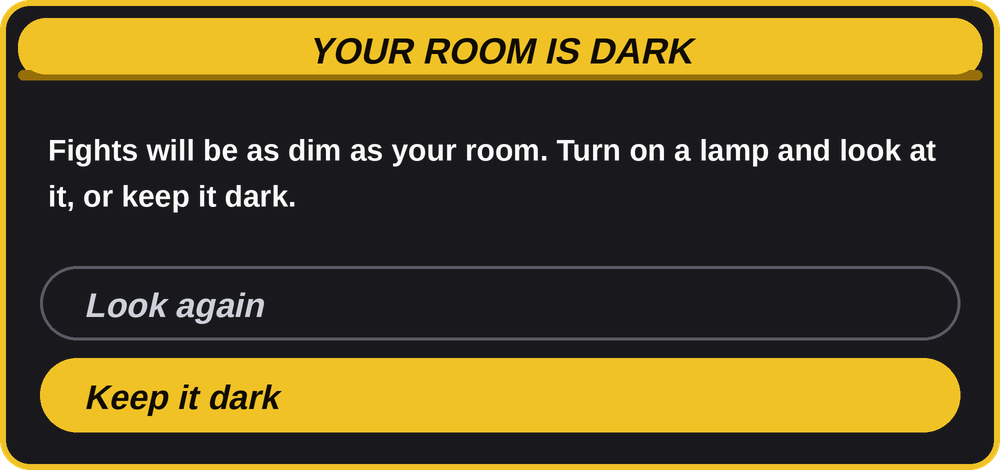
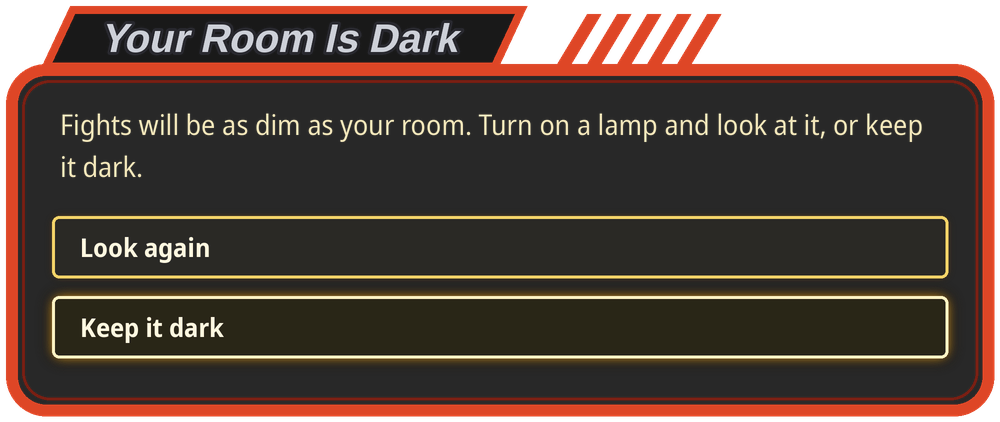
XR cards: calibration in the placing board's frame and the Options pages' look; no dark band under the titles
The calibration cards take the placing board's Melee frame (red border,
slanted title tab with hatching) round the Options pages' look: gold
line work and the cursor's pale border and glow for its buttons and
choices, the menus' Noto Sans, their cream and khaki text. The legend is
an Options box. The darker band under the gold title pills (the placing
tips' too) is gone.

diff --git a/tools/xr_cards/make_calibration.py b/tools/xr_cards/make_calibration.py
@@ -1,7 +1,10 @@
 #!/usr/bin/env python3
 # SPDX-License-Identifier: GPL-3.0-or-later
-"""Draws the XR room light calibration's pictures (src/pc/xr_calibrate.c) in
-the placing cards' style (make_cards.py), into resources/xr/:
+"""Draws the XR room light calibration's pictures (src/pc/xr_calibrate.c), into
+resources/xr/. The placing board's frame (make_cards.py: Melee's red border
+and slanted title tab) round the Options pages' look (resources/
+options-page.rcss: gold line work, the cursor's pale border and glow, the
+menus' Noto Sans):
 
   calibrate-intro.png                 the intro card (A Start, B Back)
   calibrate-clip.jpg                  its clip, a grid of frames (footage/)
@@ -25,10 +28,62 @@ import os
 import subprocess
 import tempfile
 
-from PIL import Image, ImageDraw
+from PIL import Image, ImageDraw, ImageFilter, ImageFont
 
 import make_cards as mc
-from make_cards import GOLD, GOLD_DARK, PANEL, SILVER, WHITE, s
+from make_cards import FRAME_DARK, FRAME_RED, GOLD, SILVER, WHITE, s
+
+# The Options pages' colours (options-page.rcss).
+ROW_BORDER = (240, 194, 38, 176)  # .row
+ROW_FILL = (12, 11, 8, 224)
+ROW_GLOW = (255, 150, 20, 80)
+CURSOR_BORDER = (255, 244, 196)   # .row.cursor
+CURSOR_FILL = (29, 24, 10, 240)
+CURSOR_GLOW = (255, 176, 32, 224)
+NAME = (255, 248, 224)            # a row's name
+VALUE = (240, 228, 184)           # its value, the body text
+LABEL = (201, 183, 124)           # a group's heading, notes
+RULE = (240, 194, 38, 96)
+
+MENU = os.path.join(mc.ROOT, "resources", "menu.ttf")
+MENU_BOLD = os.path.join(mc.ROOT, "resources", "menu-bold.ttf")
+
+
+def mfont(size, bold=False):
+    return ImageFont.truetype(MENU_BOLD if bold else MENU, size * mc.SS)
+
+
+def mline(d, x, y, parts, size, fill=VALUE, bold=False):
+    """A line in the menus' face: strings, and ("btn", label) glyphs."""
+    f = mfont(size, bold)
+    for p in parts:
+        if isinstance(p, tuple):
+            x = mc.button(d, x, y, p[1], size=size * 1.25) + s(10)
+        else:
+            d.text((x, y), p, font=f, fill=fill, anchor="lm")
+            x += int(f.getlength(p))
+    return x
+
+
+def mwidth(parts, size, bold=False):
+    probe = Image.new("RGBA", (s(2400), s(200)))
+    return mline(ImageDraw.Draw(probe), 0, s(100), parts, size, bold=bold)
+
+
+def glow(img, box, radius, colour, blur, spread):
+    """A box-shadow: the box's shape, grown by `spread`, blurred under it."""
+    layer = Image.new("RGBA", img.size, (0, 0, 0, 0))
+    x0, y0, x1, y1 = box
+    ImageDraw.Draw(layer).rounded_rectangle((x0 - spread, y0 - spread, x1 + spread, y1 + spread),
+                                            radius=radius + spread, fill=colour)
+    img.alpha_composite(layer.filter(ImageFilter.GaussianBlur(blur)))
+
+
+def box(img, rect, cursor=False):
+    """An Options row or button: gold line work, the cursor's pale and lit."""
+    glow(img, rect, s(7), CURSOR_GLOW if cursor else ROW_GLOW, s(7 if cursor else 4), s(3 if cursor else 1))
+    ImageDraw.Draw(img).rounded_rectangle(rect, radius=s(7), fill=CURSOR_FILL if cursor else ROW_FILL,
+                                          outline=CURSOR_BORDER if cursor else ROW_BORDER, width=s(3))
 
 CARD_W = s(1000)
 
@@ -55,31 +110,40 @@ NEXT = [
 ]
 
 
-def panel(w, h, title=None):
-    """A card: the dark panel in its gold rim, a gold title pill on top."""
-    img = Image.new("RGBA", (w, h), (0, 0, 0, 0))
+# The frame's title tab, above the panel.
+TAB = s(64)
+
+
+def frame(w, h, title):
+    """A card in the placing board's frame: the dark panel in Melee's red
+    border, the title in a slanted tab on its top edge, hatching beside it.
+    `h` is the panel's; the card is TAB taller."""
+    img = Image.new("RGBA", (w, TAB + h), (0, 0, 0, 0))
     d = ImageDraw.Draw(img)
-    d.rounded_rectangle((0, 0, w - 1, h - 1), radius=s(30), fill=PANEL + (238,), outline=GOLD, width=s(6))
-    if title:
-        pill_h = s(62)
-        d.rounded_rectangle((s(18), s(18), w - s(18), s(18) + pill_h), radius=pill_h // 2, fill=GOLD)
-        d.rounded_rectangle((s(18), s(18) + pill_h - s(10), w - s(18), s(18) + pill_h), radius=s(5), fill=GOLD_DARK)
-        d.rounded_rectangle((s(18), s(18), w - s(18), s(18) + pill_h - s(6)), radius=pill_h // 2, fill=GOLD)
-        mc.italic_text(img, (w // 2 - mc.font(36).getlength(title) // 2, s(18) + pill_h * 0.74), title, 36,
-                       (16, 12, 4))
+    top = TAB
+    d.rounded_rectangle((s(6), top, w - s(6), top + h - s(6)), radius=s(40), fill=(0, 0, 0, 215), outline=FRAME_RED,
+                        width=s(12))
+    d.rounded_rectangle((s(22), top + s(16), w - s(22), top + h - s(22)), radius=s(28), outline=FRAME_DARK, width=s(3))
+    end = s(110) + int(mc.font(40).getlength(title)) + s(60)
+    d.polygon([(s(40), top + s(6)), (s(70), s(6)), (end, s(6)), (end - s(30), top + s(6))], fill=(0, 0, 0, 230),
+              outline=FRAME_RED, width=s(8))
+    for i in range(5):
+        x = end + s(30 + i * 30)
+        d.polygon([(x, top), (x + s(30), s(14)), (x + s(44), s(14)), (x + s(14), top)], fill=FRAME_RED)
+    mc.italic_text(img, (s(100), s(52)), title, 40, SILVER, outline=(40, 40, 46))
     return img, d
 
 
-def lines(d, x, y, rows, size=30, step=46, fill=WHITE):
+def lines(d, x, y, rows, size=28, step=42, fill=VALUE):
     for parts in rows:
-        mc.rich_line(d, x, y, parts, size, fill)
+        mline(d, x, y, parts, size, fill)
         y += s(step)
     return y
 
 
 def wrap(text, size, width):
     """The words of `text` in lines as wide as `width` (supersampled) allows."""
-    f = mc.font(size)
+    f = mfont(size)
     out, line = [], ""
     for word in text.split():
         trial = word if not line else line + " " + word
@@ -93,75 +157,87 @@ def wrap(text, size, width):
     return out
 
 
-def centred(d, w, y, parts, size, fill=WHITE):
+def centred(d, w, y, parts, size, fill=VALUE):
     """A line of text and buttons centred across a card `w` wide."""
-    mc.rich_line(d, (w - mc.rich_width(parts, size)) // 2, y, parts, size, fill)
+    mline(d, (w - mwidth(parts, size)) // 2, y, parts, size, fill)
+
+
+def buttons(img, w, y, items, cursor=-1):
+    """Options buttons side by side, centred: each a box with its glyph and
+    name, as tall as an Options row."""
+    bw, bh, gap = s(250), s(62), s(36)
+    x = (w - (len(items) * bw + (len(items) - 1) * gap)) // 2
+    d = ImageDraw.Draw(img)
+    for i, (glyph, name) in enumerate(items):
+        rect = (x, y, x + bw, y + bh)
+        box(img, rect, i == cursor)
+        parts = [("btn", glyph), name]
+        mline(d, x + (bw - mwidth(parts, 26, True)) // 2, y + bh // 2, parts, 26, NAME, True)
+        x += bw + gap
+    return y + bh
 
 
 # The intro's clip (the user's headset recording, clip_atlas): where it sits
 # on the card, beside the text.
-CLIP_RECT = (s(40), s(104), s(340), s(340))
+CLIP_RECT = (s(48), TAB + s(48), s(300), s(300))
 
 
 def intro():
-    w, h = CARD_W, s(590)
-    img, d = panel(w, h, "ROOM LIGHT")
+    w, h = CARD_W, s(540)
+    img, d = frame(w, h, "Room Light")
     cx, cy, cw, ch = CLIP_RECT
-    d.rounded_rectangle((cx - s(3), cy - s(3), cx + cw + s(2), cy + ch + s(2)), radius=s(8), outline=(70, 70, 80),
-                        width=s(3))
-    x = cx + cw + s(36)
-    width = w - x - s(36)
-    y = lines(d, x, s(132), wrap("Roomtone lights each fight with your room's light.", 30, width), 30)
-    lines(d, x, y + s(18), wrap("Look at every bright light in the room: windows, ceiling lights, lamps. Hold each "
-                                "one in the middle of your view until it rings.", 30, width), 30)
-    centred(d, w, cy + ch + s(58), [("btn", "A"), "Start          ", ("btn", "B"), "Back"], 32)
-    centred(d, w, h - s(36), ["Recalibrate in Options > Graphics > Calibrate room light."], 24, SILVER)
+    box(img, (cx - s(4), cy - s(4), cx + cw + s(3), cy + ch + s(3)))
+    x = cx + cw + s(40)
+    width = w - x - s(40)
+    y = lines(d, x, cy + s(24), wrap("Roomtone lights fights with your room's light.", 28, width))
+    lines(d, x, y + s(16), wrap("Look at every bright light in the room: windows, ceiling lights, lamps. Hold each "
+                                "one in the middle of your view until it rings.", 28, width))
+    y = buttons(img, w, cy + ch + s(30), [("A", "Start"), ("B", "Back")])
+    centred(d, w, y + s(34), ["Recalibrate in Options > Graphics > Calibrate room light."], 20, LABEL)
     return img
 
 
 def strip():
-    w, h = CARD_W, s(170)
-    img, d = panel(w, h)
-    mc.italic_text(img, (s(44), s(82)), "LOOK AT EACH BRIGHT LIGHT", 40, WHITE, outline=(40, 40, 46))
+    w, h = CARD_W, s(150)
+    img, d = frame(w, h, "Room Light")
+    y = TAB + h // 2 - s(2)
+    d.text((s(52), y), "Look at each bright light", font=mfont(34, True), fill=NAME, anchor="lm")
     label = "LIGHTS FOUND"
-    f = mc.font(26)
-    d.text((w - s(130), s(36)), label, font=f, fill=SILVER, anchor="mm")
-    # The count goes under the label (slot "count").
-    return img, (w - s(210), s(52), s(160), s(100)), (s(46), s(110))
+    d.text((w - s(150), TAB + s(40)), label, font=mfont(18, True), fill=LABEL, anchor="mm")
+    # The count goes under the label (slot "count"); "Room changed" under the
+    # line (slot "changed").
+    return img, (w - s(230), TAB + s(52), s(160), s(80)), (s(54), TAB + s(98))
 
 
 def done():
-    w, h = CARD_W, s(420)
-    img, _ = panel(w, h, "ROOM LIGHT SET")
-    return img, (s(40), s(150), w - s(80), s(80)), (s(40), s(270), w - s(80), s(80))
+    w, h = CARD_W, s(250)
+    img, _ = frame(w, h, "Room Light Set")
+    return img, (s(40), TAB + s(54), w - s(80), s(80)), (s(40), TAB + s(146), w - s(80), s(50))
 
 
 def choice(title, text, options, cursor):
     w = CARD_W
-    rows = wrap(text, 30, w - s(96))
-    h = s(150) + len(rows) * s(46) + s(24) + len(options) * s(92) + s(20)
-    img, d = panel(w, h, title)
-    y = lines(d, s(48), s(150), rows, 30)
-    y += s(24)
+    rows = wrap(text, 28, w - s(120))
+    h = s(54) + len(rows) * s(42) + s(20) + len(options) * s(80) + s(40)
+    img, d = frame(w, h, title)
+    y = lines(d, s(60), TAB + s(60), rows)
+    y += s(8)
     for i, label in enumerate(options):
-        top = y + i * s(92)
-        if i == cursor:
-            d.rounded_rectangle((s(40), top, w - s(40), top + s(74)), radius=s(37), fill=GOLD)
-            mc.italic_text(img, (s(84), top + s(51)), label, 34, (16, 12, 4))
-        else:
-            d.rounded_rectangle((s(40), top, w - s(40), top + s(74)), radius=s(37), outline=(90, 90, 100), width=s(3))
-            mc.italic_text(img, (s(84), top + s(51)), label, 34, SILVER)
+        top = y + i * s(80)
+        box(img, (s(52), top, w - s(52), top + s(62)), i == cursor)
+        d.text((s(80), top + s(31)), label, font=mfont(26, True), fill=NAME, anchor="lm")
     return img
 
 
 def legend(parts):
-    size = 30
-    w = mc.rich_width(parts, size) + s(80)
-    h = s(84)
+    """The controls under the strip, in an Options box."""
+    size = 26
+    pad = s(14)
+    w = mwidth(parts, size, True) + s(56) + 2 * pad
+    h = s(64) + 2 * pad
     img = Image.new("RGBA", (w, h), (0, 0, 0, 0))
-    d = ImageDraw.Draw(img)
-    d.rounded_rectangle((0, 0, w - 1, h - 1), radius=h // 2, fill=(0, 0, 0, 215), outline=GOLD, width=s(5))
-    mc.rich_line(d, s(40), h // 2, parts, size)
+    box(img, (pad, pad, w - pad, h - pad))
+    mline(ImageDraw.Draw(img), pad + s(28), h // 2, parts, size, NAME, True)
     return img
 
 
@@ -181,15 +257,15 @@ def text_pieces():
     """The pieces, each cut tight round its text, packed in rows."""
     pieces = []
 
-    def piece(name, text, size, fill, italic=False, outline=None):
-        f = mc.font(size)
+    def piece(name, text, size, fill, italic=False, outline=None, bold=True):
+        f = mfont(size, bold)
         l, t, r, b = f.getbbox(text, anchor="ls")
         pad = s(6)
         w, h = r - l + 2 * pad + (s(size) // 3 if italic else 0), b - t + 2 * pad
         w, h = w + w % mc.SS, h + h % mc.SS  # whole pixels once reduced
         im = Image.new("RGBA", (w, h), (0, 0, 0, 0))
         if italic:
-            mc.italic_text(im, (pad - l, pad - t), text, size, fill, outline=outline)
+            mc.italic_text(im, (pad - l, pad - t), text, size, fill, outline=outline)  # Melee's face, as the tabs
         else:
             ImageDraw.Draw(im).text((pad - l, pad - t), text, font=f, fill=fill, anchor="ls")
         pieces.append((name, im))
@@ -197,11 +273,11 @@ def text_pieces():
     for k in range(10):
         piece(f"big-{k}", str(k), 64, GOLD, italic=True, outline=(40, 30, 4))
         piece(f"small-{k}", str(k), 48, GOLD)
-    piece("light-found", "light found.", 48, WHITE)
-    piece("lights-found", "lights found.", 48, WHITE)
-    piece("changed", "Room changed. Look again.", 28, (255, 190, 120))
+    piece("light-found", "light found.", 44, NAME)
+    piece("lights-found", "lights found.", 44, NAME)
+    piece("changed", "Room changed. Look again.", 22, (255, 190, 120))
     for name in NEXT:
-        piece("next:" + name, "NEXT: " + name, 36, SILVER, italic=True)
+        piece("next:" + name, "NEXT: " + name, 22, LABEL)
     width = s(1000)
     x = y = row_h = 0
     placed = []
@@ -262,9 +338,9 @@ if __name__ == "__main__":
     layout.append(("found",) + found)
     layout.append(("next",) + nxt)
     for cursor in (0, 1):
-        mc.save(choice("NO BRIGHT LIGHT FOUND", "Look straight at a window or a lamp until it rings.",
+        mc.save(choice("No Bright Light Found", "Look straight at a window or a lamp until it rings.",
                        ["Keep looking", "Done without a light"], cursor), f"calibrate-nolight-{cursor}.png")
-        mc.save(choice("YOUR ROOM IS DARK", "Fights will be as dim as your room. Turn on a lamp and look at it, or "
+        mc.save(choice("Your Room Is Dark", "Fights will be as dim as your room. Turn on a lamp and look at it, or "
                                             "keep it dark.",
                        ["Look again", "Keep it dark"], cursor), f"calibrate-dark-{cursor}.png")
     mc.save(legend([("btn", "A"), "Done   ", ("btn", "B"), "Back"]), "calibrate-legend.png")

diff --git a/tools/xr_cards/make_cards.py b/tools/xr_cards/make_cards.py
@@ -205,8 +205,6 @@ def card(w, h, title, picture, lines):
     # The title: a gold pill with black text, like Melee's selected item.
     pill_h = s(56)
     d.rounded_rectangle((s(16), s(16), w - s(16), s(16) + pill_h), radius=pill_h // 2, fill=GOLD)
-    d.rounded_rectangle((s(16), s(16) + pill_h - s(10), w - s(16), s(16) + pill_h), radius=s(5), fill=GOLD_DARK)
-    d.rounded_rectangle((s(16), s(16), w - s(16), s(16) + pill_h - s(6)), radius=pill_h // 2, fill=GOLD)
     italic_text(img, (w // 2 - font(32).getlength(title) // 2, s(16) + pill_h * 0.72), title, 32, (16, 12, 4))
     # The picture.
     px, py = s(20), s(16) + pill_h + s(14)
